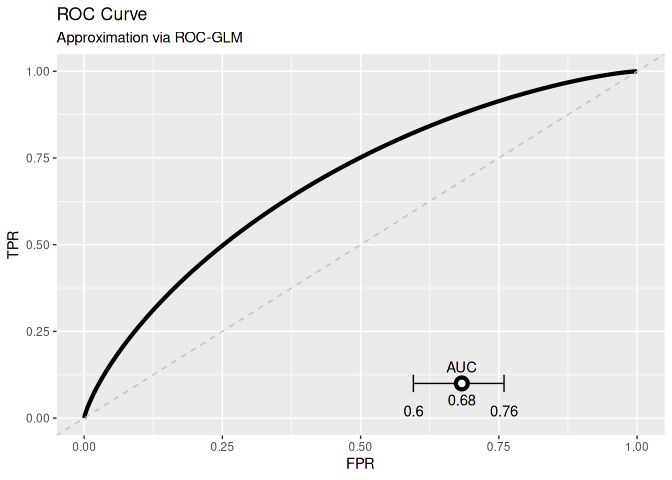
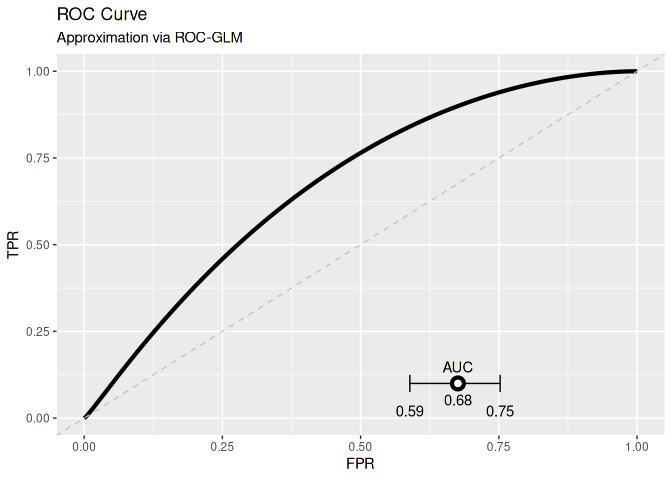
updates

diff --git a/README.md b/README.md
@@ -33,7 +33,7 @@ remotes::install_github("difuture-lmu/ds.calibration")
 #> Skipping install of 'ds.calibration' from a github remote, the SHA1 (332c4ff5) has not changed since last install.
 #>   Use `force = TRUE` to force installation
 remotes::install_github("difuture-lmu/ds.roc.glm")
-#> Skipping install of 'ds.roc.glm' from a github remote, the SHA1 (6e22e5f9) has not changed since last install.
+#> Skipping install of 'ds.roc.glm' from a github remote, the SHA1 (cfb31217) has not changed since last install.
 #>   Use `force = TRUE` to force installation
 ```
 
@@ -98,14 +98,14 @@ for (i in seq_along(datasets)) {
 conn = datashield.login(logins = builder$build(), assign = TRUE)
 #> 
 #> Logging into the collaborating servers
-#>    [-------------------------------------------------------------------------------------]   0% / 0s  Login ds1 [============>---------------------------------------------------------------]  17% / 0s  Login ds2 [========================>---------------------------------------------------]  33% / 0s  Login ds3 [=====================================>--------------------------------------]  50% / 1s  Login ds4 [==================================================>-------------------------]  67% / 1s  Login ds5 [==============================================================>-------------]  83% / 1s  Logged in all servers [================================================================] 100% / 2s
+#>    [-------------------------------------------------------------------------------------]   0% / 0s  Login ds1 [============>---------------------------------------------------------------]  17% / 0s  Login ds2 [========================>---------------------------------------------------]  33% / 0s  Login ds3 [=====================================>--------------------------------------]  50% / 1s  Login ds4 [==================================================>-------------------------]  67% / 1s  Login ds5 [==============================================================>-------------]  83% / 2s  Logged in all servers [================================================================] 100% / 2s
 #> 
 #>   No variables have been specified. 
 #>   All the variables in the table 
 #>   (the whole dataset) will be assigned to R!
 #> 
 #> Assigning table data...
-#>    [-------------------------------------------------------------------------------------]   0% / 0s  Assigning ds1 (DIFUTURE-TEST.SRV1) [=======>-------------------------------------------]  17% / 2s  Assigning ds2 (DIFUTURE-TEST.SRV2) [================>----------------------------------]  33% / 2s  Assigning ds3 (DIFUTURE-TEST.SRV3) [=========================>-------------------------]  50% / 3s  Assigning ds4 (DIFUTURE-TEST.SRV4) [=================================>-----------------]  67% / 3s  Assigning ds5 (DIFUTURE-TEST.SRV5) [=========================================>---------]  83% / 3s  Assigned all tables [==================================================================] 100% / 3s
+#>    [-------------------------------------------------------------------------------------]   0% / 0s  Assigning ds1 (DIFUTURE-TEST.SRV1) [=======>-------------------------------------------]  17% / 2s  Assigning ds2 (DIFUTURE-TEST.SRV2) [================>----------------------------------]  33% / 2s  Assigning ds3 (DIFUTURE-TEST.SRV3) [=========================>-------------------------]  50% / 3s  Assigning ds4 (DIFUTURE-TEST.SRV4) [=================================>-----------------]  67% / 3s  Assigning ds5 (DIFUTURE-TEST.SRV5) [=========================================>---------]  83% / 3s  Assigned all tables [==================================================================] 100% / 4s
 datashield.symbols(conn)
 #> $ds1
 #> [1] "D"
@@ -122,7 +122,7 @@ datashield.symbols(conn)
 #> $ds5
 #> [1] "D"
 ds.summary("D")
-#>    [-------------------------------------------------------------------------------------]   0% / 0s  Checking ds1 (exists("D")) [-----------------------------------------------------------]   0% / 0s  Getting aggregate ds1 (exists("D")) [=======>------------------------------------------]  17% / 0s  Checking ds2 (exists("D")) [=========>-------------------------------------------------]  17% / 0s  Getting aggregate ds2 (exists("D")) [================>---------------------------------]  33% / 0s  Checking ds3 (exists("D")) [===================>---------------------------------------]  33% / 1s  Getting aggregate ds3 (exists("D")) [========================>-------------------------]  50% / 1s  Checking ds4 (exists("D")) [=============================>-----------------------------]  50% / 1s  Getting aggregate ds4 (exists("D")) [================================>-----------------]  67% / 1s  Checking ds5 (exists("D")) [======================================>--------------------]  67% / 1s  Getting aggregate ds5 (exists("D")) [=========================================>--------]  83% / 1s  Aggregated (exists("D")) [=============================================================] 100% / 1s
+#>    [-------------------------------------------------------------------------------------]   0% / 0s  Checking ds1 (exists("D")) [-----------------------------------------------------------]   0% / 0s  Getting aggregate ds1 (exists("D")) [=======>------------------------------------------]  17% / 0s  Checking ds2 (exists("D")) [=========>-------------------------------------------------]  17% / 0s  Getting aggregate ds2 (exists("D")) [================>---------------------------------]  33% / 1s  Checking ds3 (exists("D")) [===================>---------------------------------------]  33% / 1s  Getting aggregate ds3 (exists("D")) [========================>-------------------------]  50% / 1s  Checking ds4 (exists("D")) [=============================>-----------------------------]  50% / 1s  Getting aggregate ds4 (exists("D")) [================================>-----------------]  67% / 1s  Checking ds5 (exists("D")) [======================================>--------------------]  67% / 1s  Getting aggregate ds5 (exists("D")) [=========================================>--------]  83% / 1s  Aggregated (exists("D")) [=============================================================] 100% / 1s
 #>    [-------------------------------------------------------------------------------------]   0% / 0s  Aggregating ds1 (classDS("D")) [========>----------------------------------------------]  17% / 0s  Aggregating ds2 (classDS("D")) [=================>-------------------------------------]  33% / 0s  Aggregating ds3 (classDS("D")) [===========================>---------------------------]  50% / 0s  Aggregating ds4 (classDS("D")) [====================================>------------------]  67% / 0s  Aggregating ds5 (classDS("D")) [=============================================>---------]  83% / 0s  Checking ds1 (classDS("D")) [----------------------------------------------------------]   0% / 0s  Getting aggregate ds1 (classDS("D")) [=======>-----------------------------------------]  17% / 0s  Checking ds2 (classDS("D")) [=========>------------------------------------------------]  17% / 0s  Getting aggregate ds2 (classDS("D")) [===============>---------------------------------]  33% / 0s  Checking ds3 (classDS("D")) [==================>---------------------------------------]  33% / 0s  Getting aggregate ds3 (classDS("D")) [=======================>-------------------------]  50% / 0s  Checking ds4 (classDS("D")) [============================>-----------------------------]  50% / 0s  Getting aggregate ds4 (classDS("D")) [================================>----------------]  67% / 0s  Checking ds5 (classDS("D")) [======================================>-------------------]  67% / 0s  Getting aggregate ds5 (classDS("D")) [========================================>--------]  83% / 0s  Aggregated (classDS("D")) [============================================================] 100% / 0s
 #>    [-------------------------------------------------------------------------------------]   0% / 0s  Checking ds1 (isValidDS(D)) [----------------------------------------------------------]   0% / 0s  Getting aggregate ds1 (isValidDS(D)) [=======================>-------------------------]  50% / 0s  Aggregated (isValidDS(D)) [============================================================] 100% / 0s
 #>    [-------------------------------------------------------------------------------------]   0% / 0s  Checking ds1 (dimDS("D")) [------------------------------------------------------------]   0% / 0s  Getting aggregate ds1 (dimDS("D")) [=========================>-------------------------]  50% / 0s  Aggregated (dimDS("D")) [==============================================================] 100% / 0s
@@ -217,7 +217,7 @@ load(here::here("data/mod.Rda"))
 
 ## Push the model to the servers:
 pushObject(conn, obj = mod)
-#> [2022-02-10 18:06:07] Your object is bigger than 1 MB (7.2 MB). Uploading larger objects may take some time.
+#> [2022-02-10 21:45:27] Your object is bigger than 1 MB (7.2 MB). Uploading larger objects may take some time.
 #>    [-------------------------------------------------------------------------------------]   0% / 0s  Checking ds1 (mod <- decodeBinary("58-0a-00-00-00-03-00-04-01-02-00-03-05-00-00-00-00-05-55-54-...  Finalizing assignment ds1 (mod <- decodeBinary("58-0a-00-00-00-03-00-04-01-02-00-03-05-00-00-00...  Checking ds2 (mod <- decodeBinary("58-0a-00-00-00-03-00-04-01-02-00-03-05-00-00-00-00-05-55-54-...  Finalizing assignment ds2 (mod <- decodeBinary("58-0a-00-00-00-03-00-04-01-02-00-03-05-00-00-00...  Checking ds3 (mod <- decodeBinary("58-0a-00-00-00-03-00-04-01-02-00-03-05-00-00-00-00-05-55-54-...  Finalizing assignment ds3 (mod <- decodeBinary("58-0a-00-00-00-03-00-04-01-02-00-03-05-00-00-00...  Checking ds4 (mod <- decodeBinary("58-0a-00-00-00-03-00-04-01-02-00-03-05-00-00-00-00-05-55-54-...  Finalizing assignment ds4 (mod <- decodeBinary("58-0a-00-00-00-03-00-04-01-02-00-03-05-00-00-00...  Checking ds5 (mod <- decodeBinary("58-0a-00-00-00-03-00-04-01-02-00-03-05-00-00-00-00-05-55-54-...  Finalizing assignment ds5 (mod <- decodeBinary("58-0a-00-00-00-03-00-04-01-02-00-03-05-00-00-00...  Assigned expr. (mod <- decodeBinary("58-0a-00-00-00-03-00-04-01-02-00-03-05-00-00-00-00-05-55-5...
 datashield.symbols(conn)
 #> $ds1
@@ -294,48 +294,48 @@ sqrt(2 * log(1.25 / delta)) * l2s / epsilon
 
 # Calculate ROC-GLM
 roc_glm = dsROCGLM(conn, "D$cens", "probs", epsilon = epsilon,
-  delta = delta, dat_name = "D")
+  delta = delta, dat_name = "D", seed = 123, seed_object = "D")
 #>    [-------------------------------------------------------------------------------------]   0% / 0s  Checking ds1 (dimDS("D")) [------------------------------------------------------------]   0% / 0s  Getting aggregate ds1 (dimDS("D")) [=======>-------------------------------------------]  17% / 0s  Checking ds2 (dimDS("D")) [=========>--------------------------------------------------]  17% / 0s  Getting aggregate ds2 (dimDS("D")) [================>----------------------------------]  33% / 0s  Checking ds3 (dimDS("D")) [===================>----------------------------------------]  33% / 1s  Getting aggregate ds3 (dimDS("D")) [=========================>-------------------------]  50% / 1s  Checking ds4 (dimDS("D")) [=============================>------------------------------]  50% / 1s  Getting aggregate ds4 (dimDS("D")) [=================================>-----------------]  67% / 1s  Checking ds5 (dimDS("D")) [=======================================>--------------------]  67% / 1s  Getting aggregate ds5 (dimDS("D")) [=========================================>---------]  83% / 1s  Aggregated (dimDS("D")) [==============================================================] 100% / 1s
 #>    [-------------------------------------------------------------------------------------]   0% / 0s  Checking ds1 (xXcols <- decodeBinary("58-0a-00-00-00-03-00-04-01-02-00-03-05-00-00-00-00-05-55-...  Finalizing assignment ds1 (xXcols <- decodeBinary("58-0a-00-00-00-03-00-04-01-02-00-03-05-00-00...  Checking ds2 (xXcols <- decodeBinary("58-0a-00-00-00-03-00-04-01-02-00-03-05-00-00-00-00-05-55-...  Finalizing assignment ds2 (xXcols <- decodeBinary("58-0a-00-00-00-03-00-04-01-02-00-03-05-00-00...  Checking ds3 (xXcols <- decodeBinary("58-0a-00-00-00-03-00-04-01-02-00-03-05-00-00-00-00-05-55-...  Finalizing assignment ds3 (xXcols <- decodeBinary("58-0a-00-00-00-03-00-04-01-02-00-03-05-00-00...  Checking ds4 (xXcols <- decodeBinary("58-0a-00-00-00-03-00-04-01-02-00-03-05-00-00-00-00-05-55-...  Finalizing assignment ds4 (xXcols <- decodeBinary("58-0a-00-00-00-03-00-04-01-02-00-03-05-00-00...  Checking ds5 (xXcols <- decodeBinary("58-0a-00-00-00-03-00-04-01-02-00-03-05-00-00-00-00-05-55-...  Finalizing assignment ds5 (xXcols <- decodeBinary("58-0a-00-00-00-03-00-04-01-02-00-03-05-00-00...  Assigned expr. (xXcols <- decodeBinary("58-0a-00-00-00-03-00-04-01-02-00-03-05-00-00-00-00-05-5...
 #>    [-------------------------------------------------------------------------------------]   0% / 0s  Checking ds1 (l2sens("D", "probs", 91, "xXcols")) [------------------------------------]   0% / 0s  Getting aggregate ds1 (l2sens("D", "probs", 91, "xXcols")) [===>-----------------------]  17% / 0s  Checking ds2 (l2sens("D", "probs", 91, "xXcols")) [=====>------------------------------]  17% / 0s  Getting aggregate ds2 (l2sens("D", "probs", 91, "xXcols")) [========>------------------]  33% / 0s  Checking ds3 (l2sens("D", "probs", 91, "xXcols")) [===========>------------------------]  33% / 1s  Getting aggregate ds3 (l2sens("D", "probs", 91, "xXcols")) [=============>-------------]  50% / 1s  Checking ds4 (l2sens("D", "probs", 91, "xXcols")) [=================>------------------]  50% / 1s  Getting aggregate ds4 (l2sens("D", "probs", 91, "xXcols")) [=================>---------]  67% / 1s  Checking ds5 (l2sens("D", "probs", 91, "xXcols")) [=======================>------------]  67% / 1s  Getting aggregate ds5 (l2sens("D", "probs", 91, "xXcols")) [=====================>-----]  83% / 1s  Aggregated (...) [=====================================================================] 100% / 1s
 #>    [-------------------------------------------------------------------------------------]   0% / 0s  Checking ds1 (rmDS("xXcols")) [--------------------------------------------------------]   0% / 0s  Getting aggregate ds1 (rmDS("xXcols")) [=======>---------------------------------------]  17% / 0s  Checking ds2 (rmDS("xXcols")) [========>-----------------------------------------------]  17% / 0s  Getting aggregate ds2 (rmDS("xXcols")) [===============>-------------------------------]  33% / 0s  Checking ds3 (rmDS("xXcols")) [==================>-------------------------------------]  33% / 1s  Getting aggregate ds3 (rmDS("xXcols")) [=======================>-----------------------]  50% / 1s  Checking ds4 (rmDS("xXcols")) [===========================>----------------------------]  50% / 1s  Getting aggregate ds4 (rmDS("xXcols")) [==============================>----------------]  67% / 1s  Checking ds5 (rmDS("xXcols")) [====================================>-------------------]  67% / 1s  Getting aggregate ds5 (rmDS("xXcols")) [======================================>--------]  83% / 1s  Aggregated (rmDS("xXcols")) [==========================================================] 100% / 1s
 #> 
-#> [2022-02-10 18:09:26] L2 sensitivity is: 0.016
+#> [2022-02-10 21:48:46] L2 sensitivity is: 0.016
 #> 
 #>    [-------------------------------------------------------------------------------------]   0% / 0s  Checking ds1 (l2s <- decodeBinary("58-0a-00-00-00-03-00-04-01-02-00-03-05-00-00-00-00-05-55-54-...  Finalizing assignment ds1 (l2s <- decodeBinary("58-0a-00-00-00-03-00-04-01-02-00-03-05-00-00-00...  Checking ds2 (l2s <- decodeBinary("58-0a-00-00-00-03-00-04-01-02-00-03-05-00-00-00-00-05-55-54-...  Finalizing assignment ds2 (l2s <- decodeBinary("58-0a-00-00-00-03-00-04-01-02-00-03-05-00-00-00...  Checking ds3 (l2s <- decodeBinary("58-0a-00-00-00-03-00-04-01-02-00-03-05-00-00-00-00-05-55-54-...  Finalizing assignment ds3 (l2s <- decodeBinary("58-0a-00-00-00-03-00-04-01-02-00-03-05-00-00-00...  Checking ds4 (l2s <- decodeBinary("58-0a-00-00-00-03-00-04-01-02-00-03-05-00-00-00-00-05-55-54-...  Finalizing assignment ds4 (l2s <- decodeBinary("58-0a-00-00-00-03-00-04-01-02-00-03-05-00-00-00...  Checking ds5 (l2s <- decodeBinary("58-0a-00-00-00-03-00-04-01-02-00-03-05-00-00-00-00-05-55-54-...  Finalizing assignment ds5 (l2s <- decodeBinary("58-0a-00-00-00-03-00-04-01-02-00-03-05-00-00-00...  Assigned expr. (l2s <- decodeBinary("58-0a-00-00-00-03-00-04-01-02-00-03-05-00-00-00-00-05-55-5...
 #> 
-#> [2022-02-10 18:09:27] Initializing ROC-GLM
+#> [2022-02-10 21:48:47] Initializing ROC-GLM
 #> 
-#> [2022-02-10 18:09:27] Host: Received scores of negative response
+#> [2022-02-10 21:48:47] Host: Received scores of negative response
 #> 
-#> [2022-02-10 18:09:27] Receiving negative scores
-#>    [-------------------------------------------------------------------------------------]   0% / 0s  Checking ds1 (getNegativeScores("D$cens", "probs", 0.3, 0.2)) [------------------------]   0% / 0s  Getting aggregate ds1 (getNegativeScores("D$cens", "probs", 0.3, 0.2)) [=>-------------]  17% / 0s  Checking ds2 (getNegativeScores("D$cens", "probs", 0.3, 0.2)) [===>--------------------]  17% / 0s  Getting aggregate ds2 (getNegativeScores("D$cens", "probs", 0.3, 0.2)) [====>----------]  33% / 0s  Checking ds3 (getNegativeScores("D$cens", "probs", 0.3, 0.2)) [=======>----------------]  33% / 1s  Getting aggregate ds3 (getNegativeScores("D$cens", "probs", 0.3, 0.2)) [=======>-------]  50% / 1s  Checking ds4 (getNegativeScores("D$cens", "probs", 0.3, 0.2)) [===========>------------]  50% / 1s  Getting aggregate ds4 (getNegativeScores("D$cens", "probs", 0.3, 0.2)) [=========>-----]  67% / 1s  Checking ds5 (getNegativeScores("D$cens", "probs", 0.3, 0.2)) [===============>--------]  67% / 1s  Getting aggregate ds5 (getNegativeScores("D$cens", "probs", 0.3, 0.2)) [===========>---]  83% / 1s  Aggregated (...) [=====================================================================] 100% / 1s
-#> [2022-02-10 18:09:28] Host: Pushing pooled scores
+#> [2022-02-10 21:48:47] Receiving negative scores
+#>    [-------------------------------------------------------------------------------------]   0% / 0s  Checking ds1 (getNegativeScores("D$cens", "probs", 0.3, 0.2,123, "D")) [---------------]   0% / 0s  Getting aggregate ds1 (getNegativeScores("D$cens", "probs", 0.3, 0.2,123, "D")) [>-----]  17% / 0s  Checking ds2 (getNegativeScores("D$cens", "probs", 0.3, 0.2,123, "D")) [=>-------------]  17% / 0s  Getting aggregate ds2 (getNegativeScores("D$cens", "probs", 0.3, 0.2,123, "D")) [=>----]  33% / 0s  Checking ds3 (getNegativeScores("D$cens", "probs", 0.3, 0.2,123, "D")) [====>----------]  33% / 1s  Getting aggregate ds3 (getNegativeScores("D$cens", "probs", 0.3, 0.2,123, "D")) [==>---]  50% / 1s  Checking ds4 (getNegativeScores("D$cens", "probs", 0.3, 0.2,123, "D")) [=======>-------]  50% / 1s  Getting aggregate ds4 (getNegativeScores("D$cens", "probs", 0.3, 0.2,123, "D")) [===>--]  67% / 1s  Checking ds5 (getNegativeScores("D$cens", "probs", 0.3, 0.2,123, "D")) [=========>-----]  67% / 1s  Getting aggregate ds5 (getNegativeScores("D$cens", "probs", 0.3, 0.2,123, "D")) [====>-]  83% / 1s  Aggregated (...) [=====================================================================] 100% / 1s
+#> [2022-02-10 21:48:48] Host: Pushing pooled scores
 #>    [-------------------------------------------------------------------------------------]   0% / 0s  Checking ds1 (pooled_scores <- decodeBinary("58-0a-00-00-00-03-00-04-01-02-00-03-05-00-00-00-00...  Finalizing assignment ds1 (pooled_scores <- decodeBinary("58-0a-00-00-00-03-00-04-01-02-00-03-0...  Checking ds2 (pooled_scores <- decodeBinary("58-0a-00-00-00-03-00-04-01-02-00-03-05-00-00-00-00...  Finalizing assignment ds2 (pooled_scores <- decodeBinary("58-0a-00-00-00-03-00-04-01-02-00-03-0...  Checking ds3 (pooled_scores <- decodeBinary("58-0a-00-00-00-03-00-04-01-02-00-03-05-00-00-00-00...  Finalizing assignment ds3 (pooled_scores <- decodeBinary("58-0a-00-00-00-03-00-04-01-02-00-03-0...  Checking ds4 (pooled_scores <- decodeBinary("58-0a-00-00-00-03-00-04-01-02-00-03-05-00-00-00-00...  Finalizing assignment ds4 (pooled_scores <- decodeBinary("58-0a-00-00-00-03-00-04-01-02-00-03-0...  Checking ds5 (pooled_scores <- decodeBinary("58-0a-00-00-00-03-00-04-01-02-00-03-05-00-00-00-00...  Finalizing assignment ds5 (pooled_scores <- decodeBinary("58-0a-00-00-00-03-00-04-01-02-00-03-0...  Assigned expr. (pooled_scores <- decodeBinary("58-0a-00-00-00-03-00-04-01-02-00-03-05-00-00-00-...
-#> [2022-02-10 18:09:29] Server: Calculating placement values and parts for ROC-GLM
+#> [2022-02-10 21:48:49] Server: Calculating placement values and parts for ROC-GLM
 #>    [-------------------------------------------------------------------------------------]   0% / 0s  Checking ds1 (roc_data <- rocGLMFrame("D$cens", "probs", "pooled_scores")) [-----------]   0% / 0s  Finalizing assignment ds1 (roc_data <- rocGLMFrame("D$cens", "probs", "pooled_scores")) []  17%...  Checking ds2 (roc_data <- rocGLMFrame("D$cens", "probs", "pooled_scores")) [=>---------]  17% / 0s  Finalizing assignment ds2 (roc_data <- rocGLMFrame("D$cens", "probs", "pooled_scores")) []  33%...  Checking ds3 (roc_data <- rocGLMFrame("D$cens", "probs", "pooled_scores")) [===>-------]  33% / 1s  Finalizing assignment ds3 (roc_data <- rocGLMFrame("D$cens", "probs", "pooled_scores")) []  50%...  Checking ds4 (roc_data <- rocGLMFrame("D$cens", "probs", "pooled_scores")) [=====>-----]  50% / 1s  Finalizing assignment ds4 (roc_data <- rocGLMFrame("D$cens", "probs", "pooled_scores")) []  67%...  Checking ds5 (roc_data <- rocGLMFrame("D$cens", "probs", "pooled_scores")) [======>----]  67% / 1s  Finalizing assignment ds5 (roc_data <- rocGLMFrame("D$cens", "probs", "pooled_scores")) []  83%...  Assigned expr. (roc_data <- rocGLMFrame("D$cens", "probs", "pooled_scores")) [=========] 100% / 1s
-#> [2022-02-10 18:09:30] Server: Calculating probit regression to obtain ROC-GLM
+#> [2022-02-10 21:48:50] Server: Calculating probit regression to obtain ROC-GLM
 #>    [-------------------------------------------------------------------------------------]   0% / 0s  Checking ds1 (calculateDistrGLMParts(formula = y ~ x, data = "roc_data", w = "w", ) [--]   0% / 0s  Getting aggregate ds1 (calculateDistrGLMParts(formula = y ~ x, data = "roc_data", w = "w", ) []...  Checking ds2 (calculateDistrGLMParts(formula = y ~ x, data = "roc_data", w = "w", ) [--]  17% / 0s  Getting aggregate ds2 (calculateDistrGLMParts(formula = y ~ x, data = "roc_data", w = "w", ) []...  Checking ds3 (calculateDistrGLMParts(formula = y ~ x, data = "roc_data", w = "w", ) [>-]  33% / 1s  Getting aggregate ds3 (calculateDistrGLMParts(formula = y ~ x, data = "roc_data", w = "w", ) []...  Checking ds4 (calculateDistrGLMParts(formula = y ~ x, data = "roc_data", w = "w", ) [>-]  50% / 1s  Getting aggregate ds4 (calculateDistrGLMParts(formula = y ~ x, data = "roc_data", w = "w", ) []...  Checking ds5 (calculateDistrGLMParts(formula = y ~ x, data = "roc_data", w = "w", ) [>-]  67% / 1s  Getting aggregate ds5 (calculateDistrGLMParts(formula = y ~ x, data = "roc_data", w = "w", ) []...  Aggregated (calculateDistrGLMParts(formula = y ~ x, data = "roc_data", w = "w", ) [====] 100% / 1s
-#> [2022-02-10 18:09:31] Deviance of iter1=52.6631
+#> [2022-02-10 21:48:51] Deviance of iter1=52.6631
 #>    [-------------------------------------------------------------------------------------]   0% / 0s  Checking ds1 (calculateDistrGLMParts(formula = y ~ x, data = "roc_data", w = "w", ) [--]   0% / 0s  Getting aggregate ds1 (calculateDistrGLMParts(formula = y ~ x, data = "roc_data", w = "w", ) []...  Checking ds2 (calculateDistrGLMParts(formula = y ~ x, data = "roc_data", w = "w", ) [--]  17% / 0s  Getting aggregate ds2 (calculateDistrGLMParts(formula = y ~ x, data = "roc_data", w = "w", ) []...  Checking ds3 (calculateDistrGLMParts(formula = y ~ x, data = "roc_data", w = "w", ) [>-]  33% / 1s  Getting aggregate ds3 (calculateDistrGLMParts(formula = y ~ x, data = "roc_data", w = "w", ) []...  Checking ds4 (calculateDistrGLMParts(formula = y ~ x, data = "roc_data", w = "w", ) [>-]  50% / 1s  Getting aggregate ds4 (calculateDistrGLMParts(formula = y ~ x, data = "roc_data", w = "w", ) []...  Checking ds5 (calculateDistrGLMParts(formula = y ~ x, data = "roc_data", w = "w", ) [>-]  67% / 1s  Getting aggregate ds5 (calculateDistrGLMParts(formula = y ~ x, data = "roc_data", w = "w", ) []...  Aggregated (calculateDistrGLMParts(formula = y ~ x, data = "roc_data", w = "w", ) [====] 100% / 1s
-#> [2022-02-10 18:09:32] Deviance of iter2=81.516
+#> [2022-02-10 21:48:52] Deviance of iter2=78.2856
 #>    [-------------------------------------------------------------------------------------]   0% / 0s  Checking ds1 (calculateDistrGLMParts(formula = y ~ x, data = "roc_data", w = "w", ) [--]   0% / 0s  Getting aggregate ds1 (calculateDistrGLMParts(formula = y ~ x, data = "roc_data", w = "w", ) []...  Checking ds2 (calculateDistrGLMParts(formula = y ~ x, data = "roc_data", w = "w", ) [--]  17% / 0s  Getting aggregate ds2 (calculateDistrGLMParts(formula = y ~ x, data = "roc_data", w = "w", ) []...  Checking ds3 (calculateDistrGLMParts(formula = y ~ x, data = "roc_data", w = "w", ) [>-]  33% / 1s  Getting aggregate ds3 (calculateDistrGLMParts(formula = y ~ x, data = "roc_data", w = "w", ) []...  Checking ds4 (calculateDistrGLMParts(formula = y ~ x, data = "roc_data", w = "w", ) [>-]  50% / 1s  Getting aggregate ds4 (calculateDistrGLMParts(formula = y ~ x, data = "roc_data", w = "w", ) []...  Checking ds5 (calculateDistrGLMParts(formula = y ~ x, data = "roc_data", w = "w", ) [>-]  67% / 1s  Getting aggregate ds5 (calculateDistrGLMParts(formula = y ~ x, data = "roc_data", w = "w", ) []...  Aggregated (calculateDistrGLMParts(formula = y ~ x, data = "roc_data", w = "w", ) [====] 100% / 1s
-#> [2022-02-10 18:09:33] Deviance of iter3=92.9034
+#> [2022-02-10 21:48:53] Deviance of iter3=92.0155
 #>    [-------------------------------------------------------------------------------------]   0% / 0s  Checking ds1 (calculateDistrGLMParts(formula = y ~ x, data = "roc_data", w = "w", ) [--]   0% / 0s  Getting aggregate ds1 (calculateDistrGLMParts(formula = y ~ x, data = "roc_data", w = "w", ) []...  Checking ds2 (calculateDistrGLMParts(formula = y ~ x, data = "roc_data", w = "w", ) [--]  17% / 0s  Getting aggregate ds2 (calculateDistrGLMParts(formula = y ~ x, data = "roc_data", w = "w", ) []...  Checking ds3 (calculateDistrGLMParts(formula = y ~ x, data = "roc_data", w = "w", ) [>-]  33% / 1s  Getting aggregate ds3 (calculateDistrGLMParts(formula = y ~ x, data = "roc_data", w = "w", ) []...  Checking ds4 (calculateDistrGLMParts(formula = y ~ x, data = "roc_data", w = "w", ) [>-]  50% / 1s  Getting aggregate ds4 (calculateDistrGLMParts(formula = y ~ x, data = "roc_data", w = "w", ) []...  Checking ds5 (calculateDistrGLMParts(formula = y ~ x, data = "roc_data", w = "w", ) [>-]  67% / 1s  Getting aggregate ds5 (calculateDistrGLMParts(formula = y ~ x, data = "roc_data", w = "w", ) []...  Aggregated (calculateDistrGLMParts(formula = y ~ x, data = "roc_data", w = "w", ) [====] 100% / 1s
-#> [2022-02-10 18:09:34] Deviance of iter4=93.5461
+#> [2022-02-10 21:48:54] Deviance of iter4=93.1952
 #>    [-------------------------------------------------------------------------------------]   0% / 0s  Checking ds1 (calculateDistrGLMParts(formula = y ~ x, data = "roc_data", w = "w", ) [--]   0% / 0s  Getting aggregate ds1 (calculateDistrGLMParts(formula = y ~ x, data = "roc_data", w = "w", ) []...  Checking ds2 (calculateDistrGLMParts(formula = y ~ x, data = "roc_data", w = "w", ) [--]  17% / 0s  Getting aggregate ds2 (calculateDistrGLMParts(formula = y ~ x, data = "roc_data", w = "w", ) []...  Checking ds3 (calculateDistrGLMParts(formula = y ~ x, data = "roc_data", w = "w", ) [>-]  33% / 1s  Getting aggregate ds3 (calculateDistrGLMParts(formula = y ~ x, data = "roc_data", w = "w", ) []...  Checking ds4 (calculateDistrGLMParts(formula = y ~ x, data = "roc_data", w = "w", ) [>-]  50% / 1s  Getting aggregate ds4 (calculateDistrGLMParts(formula = y ~ x, data = "roc_data", w = "w", ) []...  Checking ds5 (calculateDistrGLMParts(formula = y ~ x, data = "roc_data", w = "w", ) [>-]  67% / 1s  Getting aggregate ds5 (calculateDistrGLMParts(formula = y ~ x, data = "roc_data", w = "w", ) []...  Aggregated (calculateDistrGLMParts(formula = y ~ x, data = "roc_data", w = "w", ) [====] 100% / 1s
-#> [2022-02-10 18:09:35] Deviance of iter5=93.548
+#> [2022-02-10 21:48:55] Deviance of iter5=93.2027
 #>    [-------------------------------------------------------------------------------------]   0% / 0s  Checking ds1 (calculateDistrGLMParts(formula = y ~ x, data = "roc_data", w = "w", ) [--]   0% / 0s  Getting aggregate ds1 (calculateDistrGLMParts(formula = y ~ x, data = "roc_data", w = "w", ) []...  Checking ds2 (calculateDistrGLMParts(formula = y ~ x, data = "roc_data", w = "w", ) [--]  17% / 0s  Getting aggregate ds2 (calculateDistrGLMParts(formula = y ~ x, data = "roc_data", w = "w", ) []...  Checking ds3 (calculateDistrGLMParts(formula = y ~ x, data = "roc_data", w = "w", ) [>-]  33% / 1s  Getting aggregate ds3 (calculateDistrGLMParts(formula = y ~ x, data = "roc_data", w = "w", ) []...  Checking ds4 (calculateDistrGLMParts(formula = y ~ x, data = "roc_data", w = "w", ) [>-]  50% / 1s  Getting aggregate ds4 (calculateDistrGLMParts(formula = y ~ x, data = "roc_data", w = "w", ) []...  Checking ds5 (calculateDistrGLMParts(formula = y ~ x, data = "roc_data", w = "w", ) [>-]  67% / 1s  Getting aggregate ds5 (calculateDistrGLMParts(formula = y ~ x, data = "roc_data", w = "w", ) []...  Aggregated (calculateDistrGLMParts(formula = y ~ x, data = "roc_data", w = "w", ) [====] 100% / 1s
-#> [2022-02-10 18:09:36] Deviance of iter6=93.548
-#> [2022-02-10 18:09:36] Host: Finished calculating ROC-GLM
-#> [2022-02-10 18:09:36] Host: Cleaning data on server
-#> [2022-02-10 18:09:38] Host: Calculating AUC and CI
+#> [2022-02-10 21:48:56] Deviance of iter6=93.2027
+#> [2022-02-10 21:48:56] Host: Finished calculating ROC-GLM
+#> [2022-02-10 21:48:56] Host: Cleaning data on server
+#> [2022-02-10 21:48:58] Host: Calculating AUC and CI
 #>    [-------------------------------------------------------------------------------------]   0% / 0s  Checking ds1 (meanDS(D$cens)) [--------------------------------------------------------]   0% / 0s  Getting aggregate ds1 (meanDS(D$cens)) [=======>---------------------------------------]  17% / 0s  Checking ds2 (meanDS(D$cens)) [========>-----------------------------------------------]  17% / 0s  Getting aggregate ds2 (meanDS(D$cens)) [===============>-------------------------------]  33% / 0s  Checking ds3 (meanDS(D$cens)) [==================>-------------------------------------]  33% / 1s  Getting aggregate ds3 (meanDS(D$cens)) [=======================>-----------------------]  50% / 1s  Checking ds4 (meanDS(D$cens)) [===========================>----------------------------]  50% / 1s  Getting aggregate ds4 (meanDS(D$cens)) [==============================>----------------]  67% / 1s  Checking ds5 (meanDS(D$cens)) [====================================>-------------------]  67% / 1s  Getting aggregate ds5 (meanDS(D$cens)) [======================================>--------]  83% / 1s  Aggregated (meanDS(D$cens)) [==========================================================] 100% / 1s
 #>    [-------------------------------------------------------------------------------------]   0% / 0s  Checking ds1 (getNegativeScoresVar("D$cens", "probs")) [-------------------------------]   0% / 0s  Getting aggregate ds1 (getNegativeScoresVar("D$cens", "probs")) [===>------------------]  17% / 0s  Checking ds2 (getNegativeScoresVar("D$cens", "probs")) [====>--------------------------]  17% / 0s  Getting aggregate ds2 (getNegativeScoresVar("D$cens", "probs")) [======>---------------]  33% / 0s  Checking ds3 (getNegativeScoresVar("D$cens", "probs")) [=========>---------------------]  33% / 1s  Getting aggregate ds3 (getNegativeScoresVar("D$cens", "probs")) [==========>-----------]  50% / 1s  Checking ds4 (getNegativeScoresVar("D$cens", "probs")) [===============>---------------]  50% / 1s  Getting aggregate ds4 (getNegativeScoresVar("D$cens", "probs")) [==============>-------]  67% / 1s  Checking ds5 (getNegativeScoresVar("D$cens", "probs")) [====================>----------]  67% / 1s  Getting aggregate ds5 (getNegativeScoresVar("D$cens", "probs")) [=================>----]  83% / 1s  Aggregated (...) [=====================================================================] 100% / 1s
-#>    [-------------------------------------------------------------------------------------]   0% / 0s  Checking ds1 (getPositiveScoresVar("D$cens", "probs")) [-------------------------------]   0% / 0s  Getting aggregate ds1 (getPositiveScoresVar("D$cens", "probs")) [===>------------------]  17% / 0s  Checking ds2 (getPositiveScoresVar("D$cens", "probs")) [====>--------------------------]  17% / 0s  Getting aggregate ds2 (getPositiveScoresVar("D$cens", "probs")) [======>---------------]  33% / 0s  Checking ds3 (getPositiveScoresVar("D$cens", "probs")) [=========>---------------------]  33% / 1s  Getting aggregate ds3 (getPositiveScoresVar("D$cens", "probs")) [==========>-----------]  50% / 1s  Checking ds4 (getPositiveScoresVar("D$cens", "probs")) [===============>---------------]  50% / 1s  Getting aggregate ds4 (getPositiveScoresVar("D$cens", "probs")) [==============>-------]  67% / 1s  Checking ds5 (getPositiveScoresVar("D$cens", "probs")) [====================>----------]  67% / 1s  Getting aggregate ds5 (getPositiveScoresVar("D$cens", "probs")) [=================>----]  83% / 1s  Aggregated (...) [=====================================================================] 100% / 1s
-#>    [-------------------------------------------------------------------------------------]   0% / 0s  Checking ds1 (getNegativeScores("D$cens", "probs", 0.3, 0.2)) [------------------------]   0% / 0s  Getting aggregate ds1 (getNegativeScores("D$cens", "probs", 0.3, 0.2)) [=>-------------]  17% / 0s  Checking ds2 (getNegativeScores("D$cens", "probs", 0.3, 0.2)) [===>--------------------]  17% / 0s  Getting aggregate ds2 (getNegativeScores("D$cens", "probs", 0.3, 0.2)) [====>----------]  33% / 0s  Checking ds3 (getNegativeScores("D$cens", "probs", 0.3, 0.2)) [=======>----------------]  33% / 1s  Getting aggregate ds3 (getNegativeScores("D$cens", "probs", 0.3, 0.2)) [=======>-------]  50% / 1s  Checking ds4 (getNegativeScores("D$cens", "probs", 0.3, 0.2)) [===========>------------]  50% / 1s  Getting aggregate ds4 (getNegativeScores("D$cens", "probs", 0.3, 0.2)) [=========>-----]  67% / 1s  Checking ds5 (getNegativeScores("D$cens", "probs", 0.3, 0.2)) [===============>--------]  67% / 1s  Getting aggregate ds5 (getNegativeScores("D$cens", "probs", 0.3, 0.2)) [===========>---]  83% / 1s  Aggregated (...) [=====================================================================] 100% / 1s
-#>    [-------------------------------------------------------------------------------------]   0% / 0s  Checking ds1 (getPositiveScores("D$cens", "probs", 0.3, 0.2)) [------------------------]   0% / 0s  Getting aggregate ds1 (getPositiveScores("D$cens", "probs", 0.3, 0.2)) [=>-------------]  17% / 0s  Checking ds2 (getPositiveScores("D$cens", "probs", 0.3, 0.2)) [===>--------------------]  17% / 0s  Getting aggregate ds2 (getPositiveScores("D$cens", "probs", 0.3, 0.2)) [====>----------]  33% / 0s  Checking ds3 (getPositiveScores("D$cens", "probs", 0.3, 0.2)) [=======>----------------]  33% / 1s  Getting aggregate ds3 (getPositiveScores("D$cens", "probs", 0.3, 0.2)) [=======>-------]  50% / 1s  Checking ds4 (getPositiveScores("D$cens", "probs", 0.3, 0.2)) [===========>------------]  50% / 1s  Getting aggregate ds4 (getPositiveScores("D$cens", "probs", 0.3, 0.2)) [=========>-----]  67% / 1s  Checking ds5 (getPositiveScores("D$cens", "probs", 0.3, 0.2)) [===============>--------]  67% / 1s  Getting aggregate ds5 (getPositiveScores("D$cens", "probs", 0.3, 0.2)) [===========>---]  83% / 1s  Aggregated (...) [=====================================================================] 100% / 1s
-#> [2022-02-10 18:09:43] Finished!
+#>    [-------------------------------------------------------------------------------------]   0% / 0s  Checking ds1 (getPositiveScoresVar("D$cens", "probs")) [-------------------------------]   0% / 0s  Getting aggregate ds1 (getPositiveScoresVar("D$cens", "probs")) [===>------------------]  17% / 0s  Checking ds2 (getPositiveScoresVar("D$cens", "probs")) [====>--------------------------]  17% / 0s  Getting aggregate ds2 (getPositiveScoresVar("D$cens", "probs")) [======>---------------]  33% / 1s  Checking ds3 (getPositiveScoresVar("D$cens", "probs")) [=========>---------------------]  33% / 1s  Getting aggregate ds3 (getPositiveScoresVar("D$cens", "probs")) [==========>-----------]  50% / 1s  Checking ds4 (getPositiveScoresVar("D$cens", "probs")) [===============>---------------]  50% / 1s  Getting aggregate ds4 (getPositiveScoresVar("D$cens", "probs")) [==============>-------]  67% / 1s  Checking ds5 (getPositiveScoresVar("D$cens", "probs")) [====================>----------]  67% / 1s  Getting aggregate ds5 (getPositiveScoresVar("D$cens", "probs")) [=================>----]  83% / 1s  Aggregated (...) [=====================================================================] 100% / 1s
+#>    [-------------------------------------------------------------------------------------]   0% / 0s  Checking ds1 (getNegativeScores("D$cens", "probs", 0.3, 0.2,123, "D")) [---------------]   0% / 0s  Getting aggregate ds1 (getNegativeScores("D$cens", "probs", 0.3, 0.2,123, "D")) [>-----]  17% / 0s  Checking ds2 (getNegativeScores("D$cens", "probs", 0.3, 0.2,123, "D")) [=>-------------]  17% / 0s  Getting aggregate ds2 (getNegativeScores("D$cens", "probs", 0.3, 0.2,123, "D")) [=>----]  33% / 0s  Checking ds3 (getNegativeScores("D$cens", "probs", 0.3, 0.2,123, "D")) [====>----------]  33% / 1s  Getting aggregate ds3 (getNegativeScores("D$cens", "probs", 0.3, 0.2,123, "D")) [==>---]  50% / 1s  Checking ds4 (getNegativeScores("D$cens", "probs", 0.3, 0.2,123, "D")) [=======>-------]  50% / 1s  Getting aggregate ds4 (getNegativeScores("D$cens", "probs", 0.3, 0.2,123, "D")) [===>--]  67% / 1s  Checking ds5 (getNegativeScores("D$cens", "probs", 0.3, 0.2,123, "D")) [=========>-----]  67% / 1s  Getting aggregate ds5 (getNegativeScores("D$cens", "probs", 0.3, 0.2,123, "D")) [====>-]  83% / 1s  Aggregated (...) [=====================================================================] 100% / 1s
+#>    [-------------------------------------------------------------------------------------]   0% / 0s  Checking ds1 (getPositiveScores("D$cens", "probs", 0.3, 0.2,123,"D")) [----------------]   0% / 0s  Getting aggregate ds1 (getPositiveScores("D$cens", "probs", 0.3, 0.2,123,"D")) [>------]  17% / 0s  Checking ds2 (getPositiveScores("D$cens", "probs", 0.3, 0.2,123,"D")) [==>-------------]  17% / 0s  Getting aggregate ds2 (getPositiveScores("D$cens", "probs", 0.3, 0.2,123,"D")) [=>-----]  33% / 0s  Checking ds3 (getPositiveScores("D$cens", "probs", 0.3, 0.2,123,"D")) [====>-----------]  33% / 1s  Getting aggregate ds3 (getPositiveScores("D$cens", "probs", 0.3, 0.2,123,"D")) [===>---]  50% / 1s  Checking ds4 (getPositiveScores("D$cens", "probs", 0.3, 0.2,123,"D")) [=======>--------]  50% / 1s  Getting aggregate ds4 (getPositiveScores("D$cens", "probs", 0.3, 0.2,123,"D")) [====>--]  67% / 1s  Checking ds5 (getPositiveScores("D$cens", "probs", 0.3, 0.2,123,"D")) [==========>-----]  67% / 1s  Getting aggregate ds5 (getPositiveScores("D$cens", "probs", 0.3, 0.2,123,"D")) [=====>-]  83% / 1s  Aggregated (...) [=====================================================================] 100% / 1s
+#> [2022-02-10 21:49:03] Finished!
 gg_distr_roc = plot(roc_glm)
 gg_distr_roc
 ```
@@ -367,7 +367,7 @@ auc = pROC::auc(dat_test$cens, probs)
 #> Setting direction: controls < cases
 c(auc_emp = auc, auc_distr_roc_glm = roc_glm$auc)
 #>           auc_emp auc_distr_roc_glm 
-#>            0.6725            0.6831
+#>            0.6725            0.6760
 
 # Calculate TPR and FPR values and add to distributed ROC-GLM plot
 plt_emp_roc_data = simpleROC(dat_test$cens, probs)
